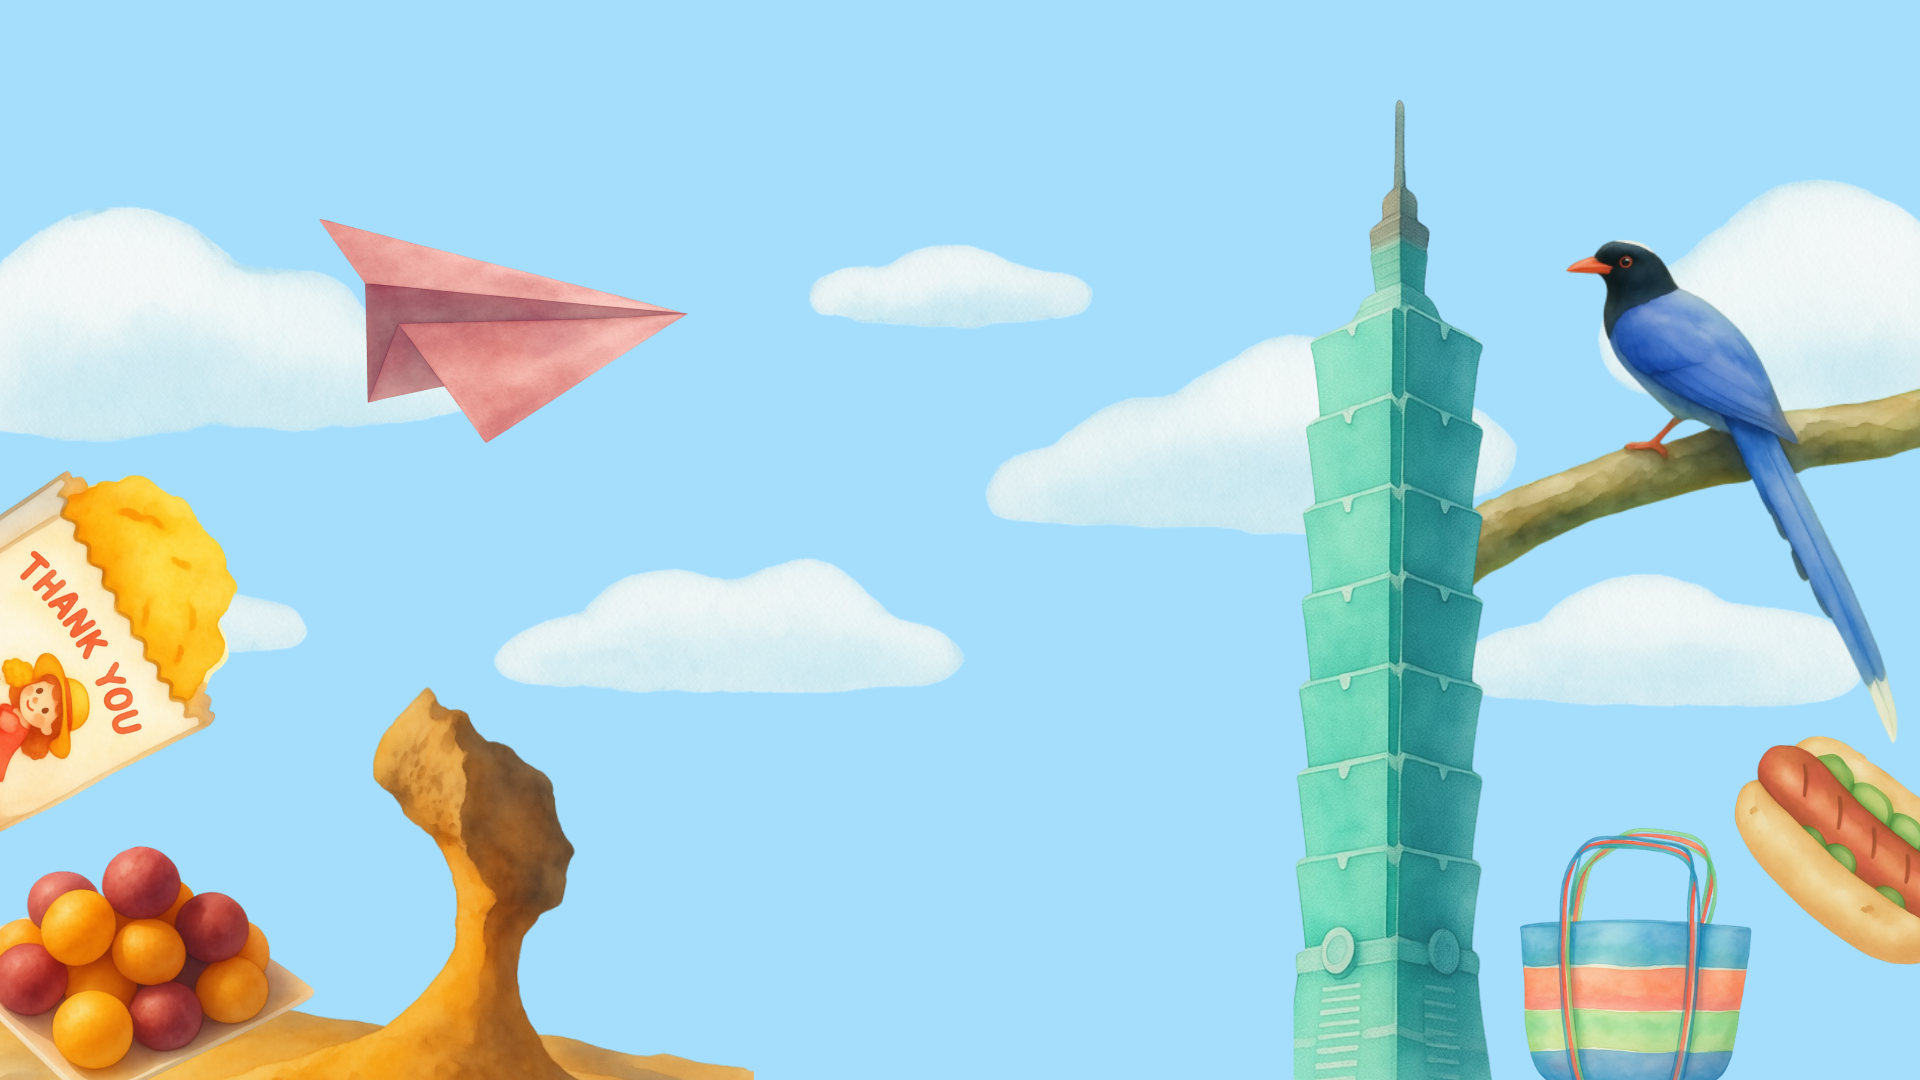
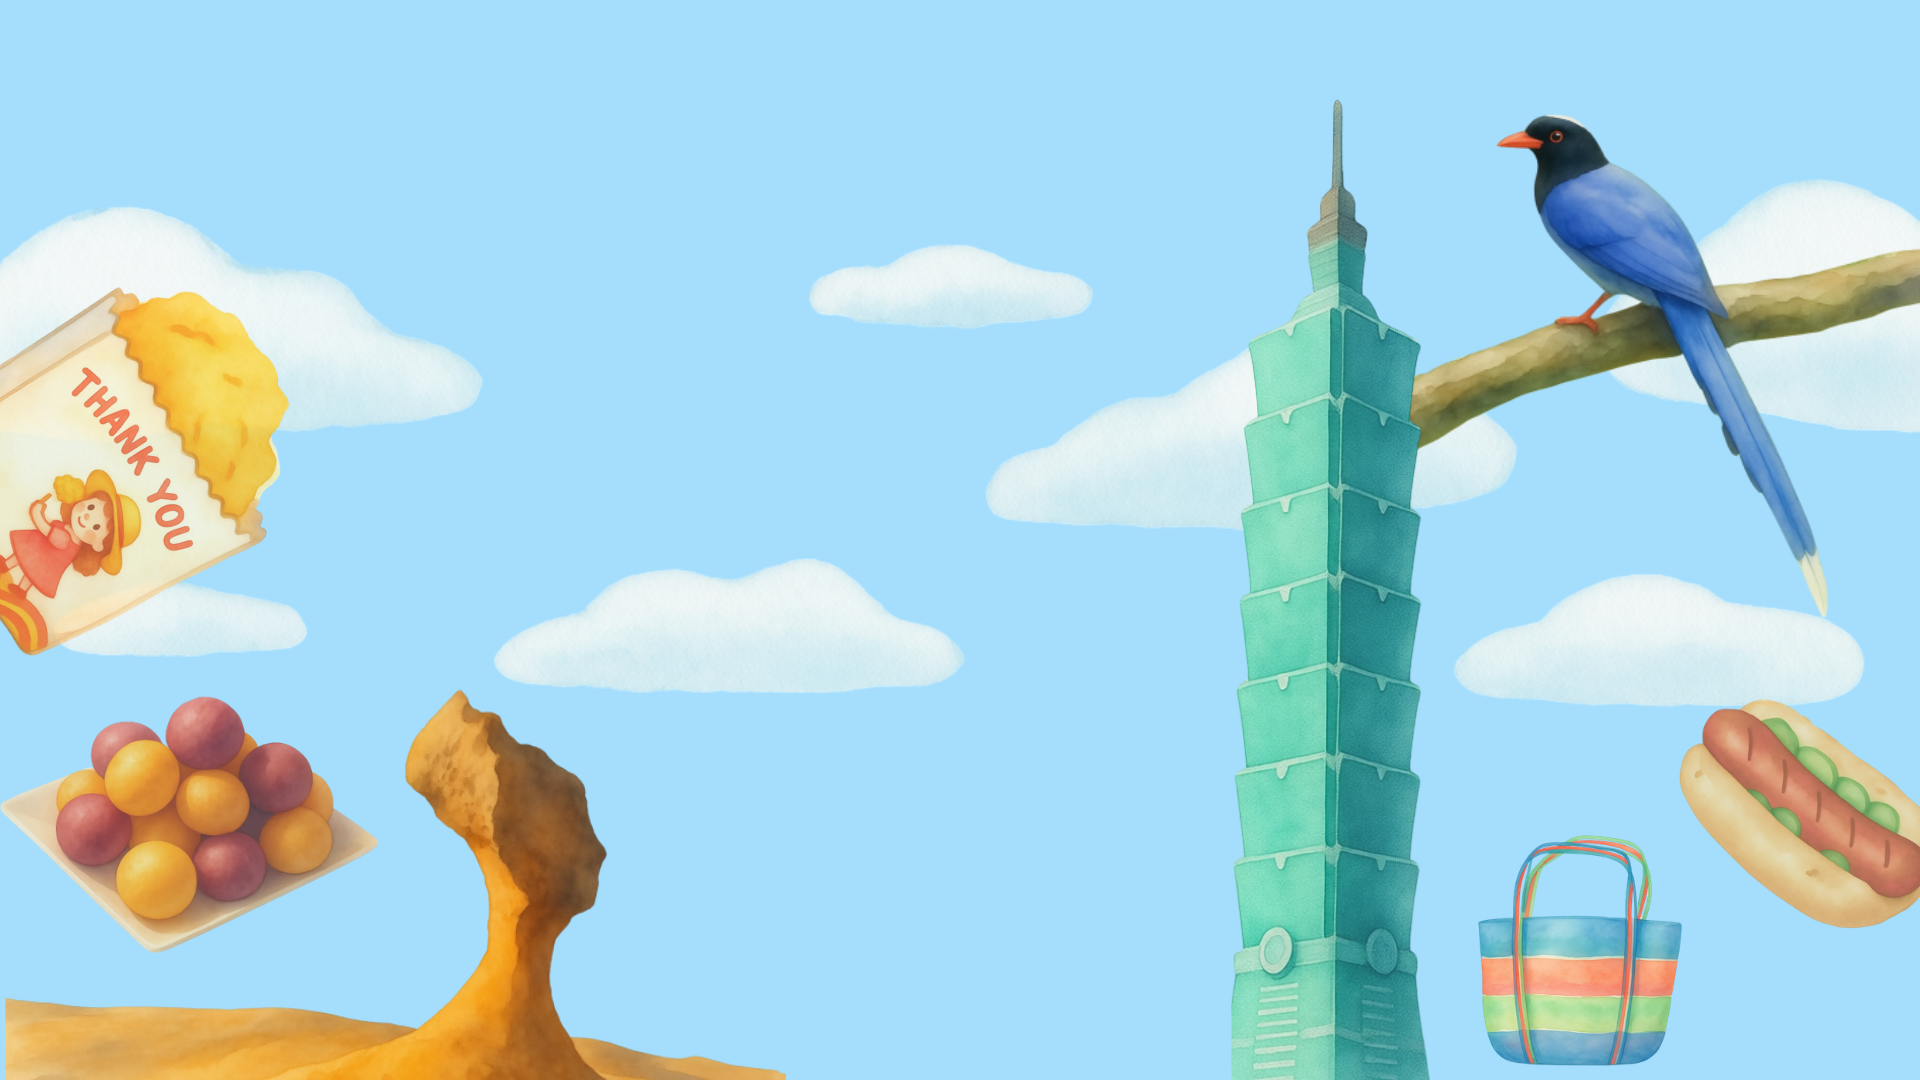
new hero and paper plane

Changed region(s): [[0.625, 0.0917, 1.0, 1.0], [0.0, 0.275, 0.4062, 1.0], [0.1562, 0.1833, 0.375, 0.4278]]

diff --git a/app/page.tsx b/app/page.tsx
@@ -4,7 +4,7 @@
 import Image from "next/image";
 import Link from "next/link";
 import { useEffect, useState } from "react";
-import { motion } from "framer-motion";
+import { motion, useScroll, useTransform, useSpring } from "framer-motion";
 import Navbar from "../components/Navbar";
 
 function getGreeting(): string {
@@ -34,6 +34,12 @@ export default function Home() {
 
   useEffect(() => { setGreeting(getGreeting()); }, []);
 
+  const { scrollY } = useScroll();
+  // 紙飛機跟著 scroll 往下移動
+  const planeY = useTransform(scrollY, [0, 800], [0, 600]);
+  const planeX = useTransform(scrollY, [0, 800], [0, 80]);
+  const planeRotate = useTransform(scrollY, [0, 800], [0, 15]);
+
   return (
     <>
       <Navbar isHomePage={true} />
@@ -48,7 +54,7 @@ export default function Home() {
               alt="DFW Taiwan Guide"
               fill
               className="hidden sm:block"
-              style={{ objectFit: "cover", objectPosition: "center top" }}
+              style={{ objectFit: "cover", objectPosition: "60% top" }}
               priority
             />
             {/* 手機版圖片 */}
@@ -80,6 +86,40 @@ export default function Home() {
             >
               {greeting}
             </motion.p>
+          </div>
+
+          {/* 紙飛機 + 虛線路徑 */}
+          <div className="absolute inset-0 pointer-events-none z-20 overflow-hidden">
+            {/* 虛線路徑 */}
+            <svg
+              className="absolute"
+              style={{ left: "22%", top: "22%", width: "80px", height: "60vh" }}
+              viewBox="0 0 80 600"
+              fill="none"
+            >
+              <path
+                d="M 40 0 C 50 150, 20 300, 40 450, 50 550, 40 600"
+                stroke="#4a2010"
+                strokeWidth="1.5"
+                strokeDasharray="6 6"
+                opacity="0.3"
+              />
+            </svg>
+
+            {/* 紙飛機 */}
+            <motion.div
+              style={{
+                position: "absolute",
+                left: "20%",
+                top: "20%",
+                y: planeY,
+                x: planeX,
+                rotate: planeRotate,
+              }}
+            >
+              {/* eslint-disable-next-line @next/next/no-img-element */}
+              <img src="/paper-plane.png" alt="紙飛機" width={80} height={80} style={{ display: "block" }} />
+            </motion.div>
           </div>
 
           {/* Scroll 提示 — 下方 */}